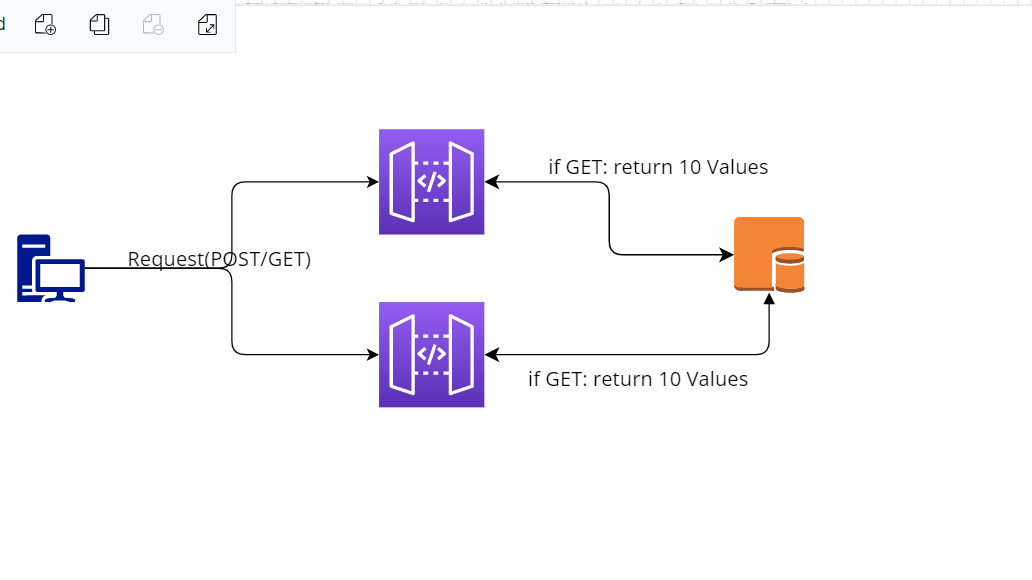
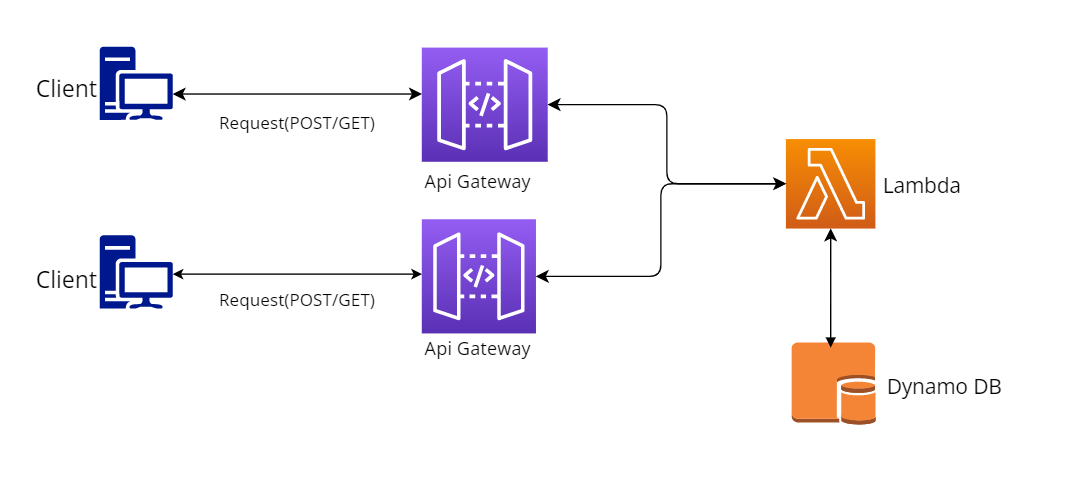
Sprint6 Day2

diff --git a/Khalil_Repos/Sprint6-Khalil/Day-2/resource/ApiLambda.py b/Khalil_Repos/Sprint6-Khalil/Day-2/resource/ApiLambda.py
@@ -22,15 +22,11 @@ def lambda_handler(event, context):
     crudOperation=event["httpMethod"]      # Return which CRUD operation/Method is called
     # logger.info(event)
     if crudOperation=="POST":
-        response = saveProduct(json.loads(event['body'][0])) 
-    # elif crudOperation=="GET":
-    #     response = getProducts()
-    # elif crudOperation=="PATCH":
-    #     requestBody = json.loads(event['body'])
-    #     response = modifyProduct(requestBody["ID"],requestBody["updateValue"])
-    # elif crudOperation=="DELETE":
-    #     requestBody = json.loads(event['body'])
-    #     response = deleteProduct(requestBody['ID'])
+        event_=event['body']
+        response = saveProduct(json.loads(event_)) 
+    elif crudOperation=="GET":
+        response = getProducts()
+
     else:
         response = buildResponse (404, 'Not Found')
         
@@ -38,82 +34,47 @@ def lambda_handler(event, context):
 
 # All the DynamoDB function's reference is : https://boto3.amazonaws.com/v1/documentation/api/latest/guide/dynamodb.html
 
-# def getProducts():                  # Return all the items of Table
-#     try:
-#         URLsList,URLsID=fetchURLs(table)                               # fetch all URLs which will be insert by client
-#         if len(URLsList) != 0:
-#             body = {
-#                 "products": URLsList
-#             }
-#             return buildResponse (200, body)
-#         else:
-#             body = {
-#                 "products": "Table is Empty"
-#             }
-#             return buildResponse (200, body)
-#     except:
-#         logger.exception('Exception Occured !!! GET Operation Failed')
+def getProducts():                  # Return all the items of Table
+    try:
+        URLsList=fetchURLs(table)                               # fetch all URLs which will be insert by client
+        if len(URLsList) != 0:
+            body = {
+                "Values": URLsList
+            }
+            return buildResponse (200, body)
+        else:
+            body = {
+                "Values": "Table is Empty..."
+            }
+            return buildResponse (200, body)
+    except:
+        logger.exception('Exception Occured !!! GET Operation Failed')
 
 def saveProduct (requestBody):      # Insert the item in Table
     try:
-        # URLsList,URLsID=fetchURLs(table)                               # fetch all URLs which will be insert by client
-        # if requestBody["ID"] not in URLsID:                     # First Verify the primaryKey already exist or not
-            # if requestBody["URL"] not in URLsList:              # To verify that, URL already exist or not
 
-# datetime object containing current date and time
-        now = datetime.now()
-        # print("now =", now)
-
-        # dd/mm/YY H:M:S
-        dt_string = now.strftime("%d/%m/%Y %H:%M:%S")
-        # print("date and time =", dt_string)	
-
-        table.put_item(Item=
-        {
-            "TimeStamp":dt_string,
-            "Value": requestBody['event1']['attr']
-        }
+        # datetime object containing current date and time
+        currentDateTime = datetime.now()
+        dt_string = currentDateTime.strftime("%d/%m/%Y %H:%M:%S")
+            
+        table.put_item(Item={
+            "AttributeValue": dict(requestBody[0])['event1']['attr1'],
+            "TimeStamp_":dt_string
+            }
         ) 
         body = {
             "Operation": "SAVE",
             "Message": "SUCCESS", 
-            "Item": requestBody
+            "Item": requestBody,
+            "InputDate":dt_string,
         }
         return buildResponse (200, body) 
-        #     else:
-        #         body={
-        #         "Operation": "FAIL",
-        #         "Message": "NOT SUCCESS, ALREADY URL IN DATABASE", 
-        #         "Item": requestBody
-        #     }
-        #         return buildResponse (404, body)                 
-        # else:
-        #     body={
-        #         "Operation": "FAIL",
-        #         "Message": "NOT SUCCESS, ALREADY ID IN DATABASE", 
-        #         "Item": requestBody
-        #     }
-        #     return buildResponse (404, body) 
+
     except:
         logger.exception('Exception Occured !!! POST Operation Failed')
 
 
-    
-# def getProduct(productId):                  # Fetch single item on the ID basis 
-#     try: 
-#         response = table.get_item( Key={
-#         "ID": productId
-        
-#     })
-#         if 'Item' in response:
-#             # return buildResponse (200, response['Item'])
-#             return True
-#         else:
-#             # return buildResponse (404, {'Message': 'ProductId: %s not found' % productId}) 
-#             return False
-#     except:
-#         logger.exception('Fetch Single Item Failed !!!')
-    
+
     
 def buildResponse(statusCode, body=None): 
     response = {

diff --git a/Khalil_Repos/Sprint6-Khalil/Day-2/day_2/day_2_stack.py b/Khalil_Repos/Sprint6-Khalil/Day-2/day_2/day_2_stack.py
@@ -28,7 +28,8 @@ class Day2Stack(Stack):
         ApiLambda.apply_removal_policy(RemovalPolicy.DESTROY) 
         
         
-        global_crud_table = DB.Table(self, "DynamoDBCRUDTable", partition_key=DB.Attribute(name="TimeStamp", type=DB.AttributeType.STRING))
+        global_crud_table = DB.Table(self, "DynamoDBCRUDTable", partition_key=DB.Attribute(name="AttributeValue", type=DB.AttributeType.STRING),
+        sort_key=DB.Attribute(name="TimeStamp_", type=DB.AttributeType.STRING))
         global_crud_table.apply_removal_policy(RemovalPolicy.DESTROY)                
         
         
@@ -36,7 +37,6 @@ class Day2Stack(Stack):
         ApiLambda.add_environment("CRUDtableName" ,table_name)             # add Table name as an  environmental variable
         
 
-        
         
         
         
@@ -50,6 +50,17 @@ class Day2Stack(Stack):
 
         # urlCRUD.add_method("POST",apiGate.MockIntegration(integration_responses=[apiGate.IntegrationResponse(status_code="200")]),method_responses=[apiGate.MethodResponse(status_code="200")])
         urlCRUD.add_method("POST")
+        urlCRUD.add_method("GET")
+        
+        api2 = apiGate.LambdaRestApi(self, "Khalil-2ndrestApi-crud",
+        handler=ApiLambda, proxy=False)
+        
+        urlCRUD = api2.root.add_resource("Fetch-Operation")
+
+        # urlCRUD.add_method("POST",apiGate.MockIntegration(integration_responses=[apiGate.IntegrationResponse(status_code="200")]),method_responses=[apiGate.MethodResponse(status_code="200")])
+        urlCRUD.add_method("POST")
+        urlCRUD.add_method("GET")
+        
         
                 # Lambda Construct
 # https://docs.aws.amazon.com/cdk/api/v1/python/aws_cdk.aws_lambda/Function.html?highlight=add_environment#aws_cdk.aws_lambda.Function
@@ -70,8 +81,7 @@ class Day2Stack(Stack):
                 ),
             managed_policies=[
                 iam_.ManagedPolicy.from_aws_managed_policy_name('service-role/AWSLambdaBasicExecutionRole'),
-                # iam_.ManagedPolicy.from_aws_managed_policy_name('CloudWatchFullAccess'),
-                # iam_.ManagedPolicy.from_aws_managed_policy_name("AWSCloudFormationFullAccess")
+                iam_.ManagedPolicy.from_aws_managed_policy_name("AmazonDynamoDBFullAccess")
             ]
         )
         return role

diff --git a/Khalil_Repos/Sprint6-Khalil/Day-2/resource/fetchClientURLs.py b/Khalil_Repos/Sprint6-Khalil/Day-2/resource/fetchClientURLs.py
@@ -1,31 +1,34 @@
-import boto3,os
 
-# dynamodb = boto3.resource('dynamodb')
-# TableName=os.getenv("CRUDtableName")                    # fetching TableName 
-# tableName=dynamodb.Table(TableName)
 
 def fetchURLs(tableName):
     response = tableName.scan()
     result = response['Items']
         
         # If all Items not be scanned in above method then we use while loop.
+
         # LastEvaluatedkey: when all items not scanned it returns attribute of LastEvaluatedKey in response ,then 
         # with help of ExclusiveStartKey we will expand items in response, So simply it means If DynamoDB processes the number
         # of items up to the limit while processing the results, it stops the operation and returns the matching values up to that 
         # point, and a key in LastEvaluatedKey to apply in a subsequent operation, so that you can pick up where you left off.
+
         # ExclusiveStartkey; he primary key of the first item that this operation will evaluate. Use the value 
         # that was returned for LastEvaluatedKey in the previous operation. 
     
-    while 'LastEvaluatedkey' in response:
-        response = tableName.scan(ExclusiveStartkey=response['LastEvaluatedKey'])
-        result.extend(response['Item'])
+    # while 'LastEvaluatedkey' in response:
+    #     response = tableName.scan(ExclusiveStartkey=response['LastEvaluatedKey'])
+    #     result.extend(response['Item'])
+
+    URLsList={}
     
-    # result=sorted(result.items())
-    # dict(sorted(result.items(), key=lambda item: item[1]))
-    
-    URLsList,partitionKey=[],[]
     for index in range(len(result)):
-        URLsList.append(result[index]["URL"])
-        partitionKey.append(result[index]["ID"])
-    return URLsList,partitionKey
+        URLsList[result[index]["TimeStamp_"]]=result[index]["AttributeValue"]
+
+    URLsList=dict(sorted(URLsList.items()))
+    
+    URLsList_=list(URLsList.values())
+    
+    length=len(URLsList_)
+    if length<=10:
+        return URLsList_
+    return URLsList_[length-10:][::-1]
     

diff --git a/Khalil_Repos/Sprint6-Khalil/Day-2/README.md b/Khalil_Repos/Sprint6-Khalil/Day-2/README.md
@@ -11,10 +11,9 @@ Task to do for this Project is:
     b) How will you return 10 latest events when required?
 
 So For this , I create two `Lambda RestApi` and two  httpMethod `POST` and `GET` along with this, also create a `lambda Function` and `dynamodb` table in main Stack File,
-further, create another .py lambda file , in which a user define POST and GET function are created and inside that `get_item` and `put-item` function 
-has also been called to put Data into DyNamoDB table. .
+further, create another .py lambda file , in which a user define `POST and GET` function are created and inside that `get_item` and `put-item` 
+function has also been called to put and get Data from DyNamoDB table.
 
-and Finally 
 
 
 To Run the Project:
@@ -50,4 +49,4 @@ command.
  * `cdk diff`        compare deployed stack with current state
  * `cdk docs`        open CDK documentation
 
-Enjoy!
+Happy Coding!!!
